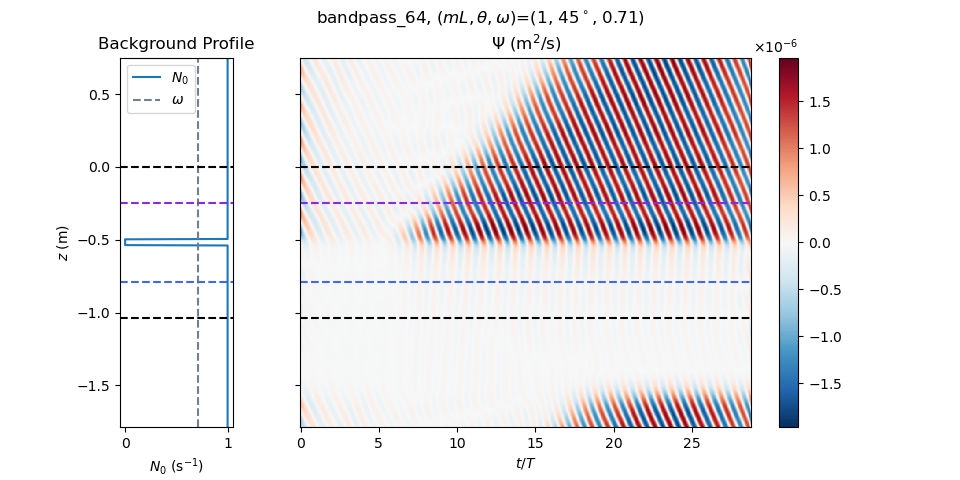
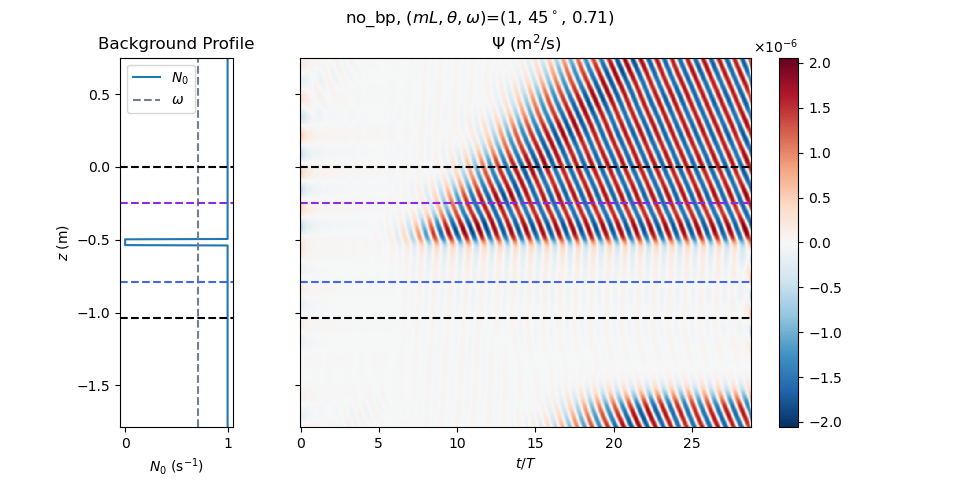
Resetting to no band pass

diff --git a/switchboard.py b/switchboard.py
@@ -81,11 +81,11 @@ use_rayleigh_friction   = False
 boundary_forcing_region = True  # If False, waves will be forced over entire domain
 
 # Plotting parameters
-plot_spacetime = False
+plot_spacetime = True
 plot_wavespace = False
 plot_amplitude = True
 plot_windows   = False
-plot_up_dn     = False
+plot_up_dn     = True
 # If true, plot will include full simulated domain, if false, just the display domain
 plot_full_domain = True
 

diff --git a/post_process.py b/post_process.py
@@ -130,7 +130,7 @@ def FT_in_time(t, z, data, dt, omega):
     # find relevant frequencies
     freq = np.fft.fftfreq(len(t), dt)
     # Apply filtering on frequencies
-    use_bp = True
+    use_bp = False
     if use_bp:
         # Apply band pass
         ftd = apply_band_pass(ftd, freq, omega, bp_wid=63)
